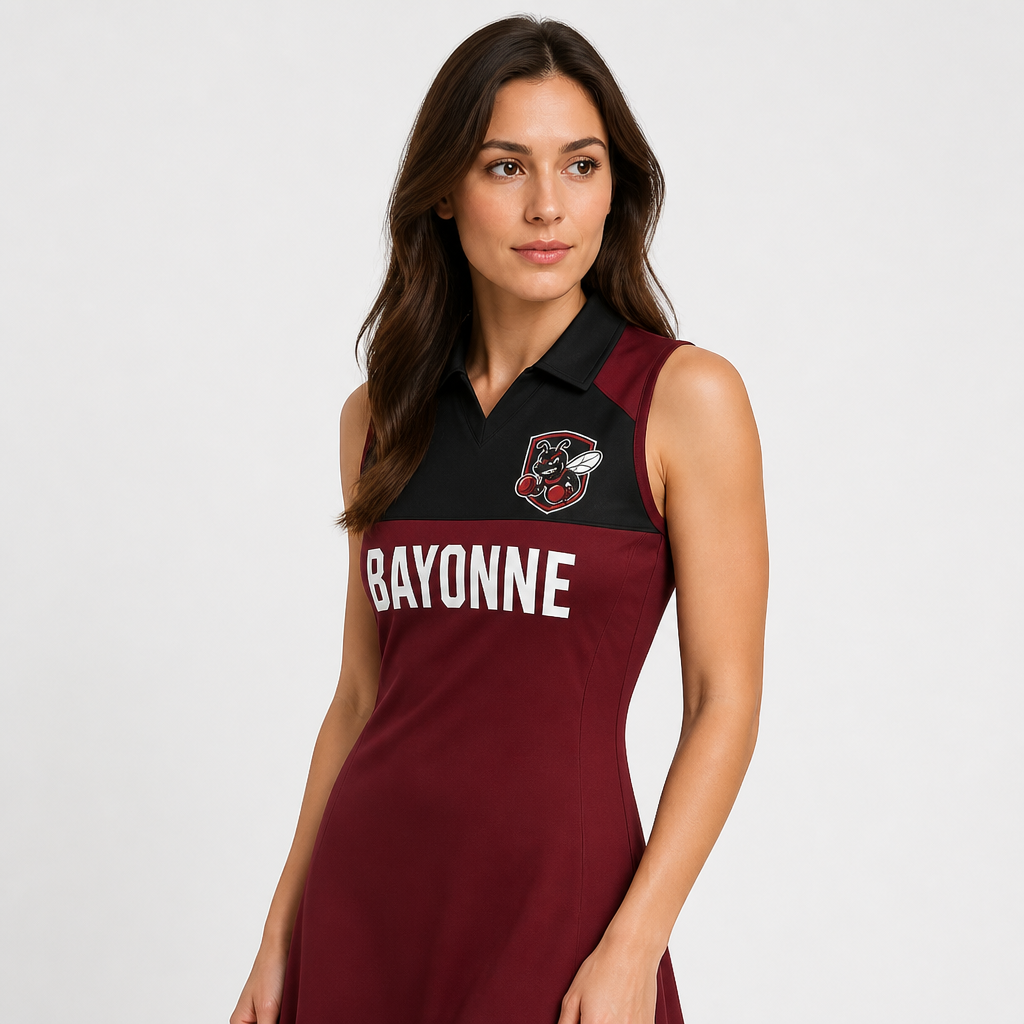
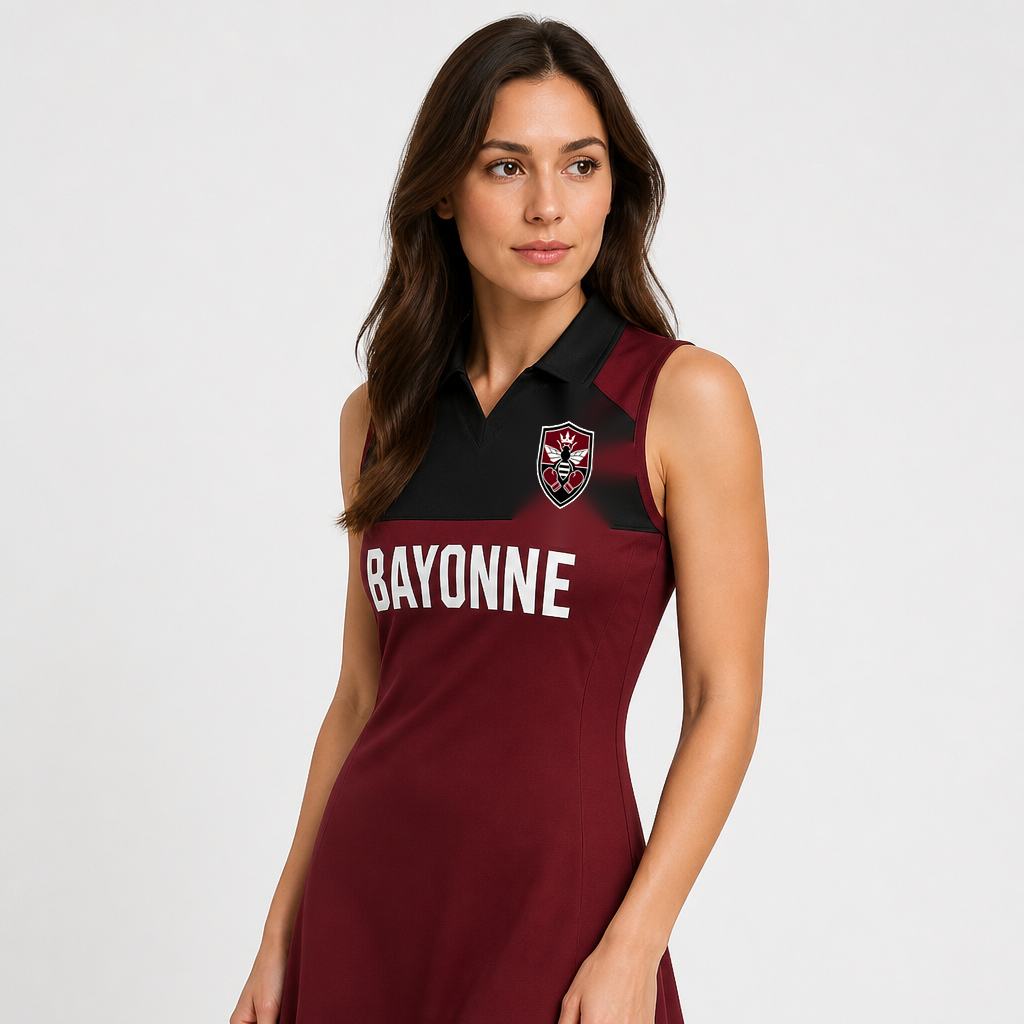
Apply lady-bee crest to jersey dress
Replace the boxing-bee on BB-DRESS plates and campaign stills with the
crowned lady-bee shield, wire CRESTS.lady + dress-only validation, and
tighten back-lettering font remount plus mobile type sizes.

Changed region(s): [[0.5, 0.4062, 0.625, 0.5312]]

diff --git a/src/components/ProductCanvas.tsx b/src/components/ProductCanvas.tsx
@@ -104,14 +104,18 @@ function useInkBiasEm(text: string, fontFamily: string, letterSpacing: string) {
       setBiasEm(Number.isFinite(measured) ? measured : fallback);
     };
 
-    const run = () => {
-      if (typeof document !== "undefined" && document.fonts?.ready) {
-        void document.fonts.ready.then(measure);
-      } else {
-        measure();
+    const run = async () => {
+      if (typeof document !== "undefined" && document.fonts?.load) {
+        try {
+          await document.fonts.load(`180px ${fontFamily}`);
+          await document.fonts.ready;
+        } catch {
+          /* measure with fallback metrics */
+        }
       }
+      if (!cancelled) measure();
     };
-    run();
+    void run();
     return () => {
       cancelled = true;
     };
@@ -187,7 +191,11 @@ export function ProductCanvas({
       />
 
       {view === "back" && showLettering && (
-        <div className="pointer-events-none absolute inset-0" aria-hidden>
+        <div
+          key={fontId}
+          className="pointer-events-none absolute inset-0"
+          aria-hidden
+        >
           <p
             className="absolute flex items-center justify-center whitespace-nowrap text-center uppercase text-white"
             style={{
@@ -234,7 +242,7 @@ export function ProductCanvas({
         </p>
       )}
 
-      <figcaption className="label-caps absolute bottom-0 left-0 right-0 bg-black/70 px-3 py-2 text-center text-[0.6rem] tracking-[0.14em] text-bone/80">
+      <figcaption className="label-caps absolute bottom-0 left-0 right-0 bg-black/70 px-3 py-2 text-center tracking-[0.14em] text-bone/80">
         {caption}
       </figcaption>
     </figure>

diff --git a/src/lib/brandAssets.ts b/src/lib/brandAssets.ts
@@ -9,7 +9,8 @@
  *    plates are forbidden. Delete duplicates; do not reintroduce them.
  * 4. Front/back (or front/side) for a SKU must be that SKU’s own pair — never
  *    borrow another product’s secondary when a dedicated plate exists.
- * 5. Queen Bees crest is Faithful/story only — not the Match kit crest.
+ * 5. Queen Bees story crest (`CRESTS.queen`) is Faithful/story only.
+ * 6. Lady-bee crest (`CRESTS.lady`) is BB-DRESS garment art only — not site chrome.
  */
 
 import jerseyFront from "@/assets/bayonne/previews/jersey-front.jpg";
@@ -36,6 +37,7 @@ import sweatsFront from "@/assets/bayonne/previews/sweats-front.jpg";
 import sweatsSide from "@/assets/bayonne/previews/sweats-side.jpg";
 
 import boxingBee from "@/assets/bayonne/spirit/boxing-bee.png";
+import ladyBee from "@/assets/bayonne/spirit/lady-bee.png";
 import queenCrest from "@/assets/bayonne/reveal/reveal-01-crest.jpg";
 
 import lifestyleFocus from "@/assets/bayonne/lifestyle/lifestyle-focus.jpg";
@@ -46,6 +48,8 @@ import lifestyleQueen from "@/assets/bayonne/lifestyle/lifestyle-queen.jpg";
 export const CRESTS = {
   /** Match kit + site chrome (landing header, store header, category aside). */
   primary: boxingBee,
+  /** Jersey dress left-chest crest — crowned bee shield (NPFC original IP). */
+  lady: ladyBee,
   /** Queen Bees crest mark — story proof, not Match garment art. */
   queen: queenCrest,
 } as const;

diff --git a/src/routes/team.$slug.$product.tsx b/src/routes/team.$slug.$product.tsx
@@ -115,10 +115,12 @@ function ProductListingPage() {
     }
   }, [kit, shopifyItem, size, isHat]);
 
-  // Truth mode: flip to back when personalizing lettered tops.
+  // Truth mode: flip to back when personalizing lettered tops (incl. font pick).
   useEffect(() => {
-    if (galleryMode === "name-it" && product.nameNumber && (name || number)) setView("back");
-  }, [galleryMode, product.nameNumber, name, number]);
+    if (galleryMode === "name-it" && product.nameNumber && (name || number || usesTypography)) {
+      setView("back");
+    }
+  }, [galleryMode, product.nameNumber, name, number, usesTypography, fontId]);
 
   const onNumberChange = (raw: string) => {
     const digits = raw.replace(/\D/g, "");
@@ -426,7 +428,11 @@ function ProductListingPage() {
                       <button
                         key={f.id}
                         type="button"
-                        onClick={() => setFontId(f.id)}
+                        onClick={() => {
+                          setFontId(f.id);
+                          if (galleryMode !== "name-it") setGalleryMode("name-it");
+                          setView("back");
+                        }}
                         className={`border px-3 py-3 text-left transition-colors ${
                           on
                             ? "border-foreground bg-foreground text-background"

diff --git a/src/catalog/skus.ts b/src/catalog/skus.ts
@@ -25,6 +25,8 @@ type Draft = {
   motifDefault?: "chevron" | "grid" | "arc";
   patternCopy?: string;
   strikeOffApproved?: boolean;
+  /** Override default boxing-bee (lady-bee is BB-DRESS only). */
+  crest?: KitSpec["graphics"]["crest"];
 };
 
 function trimsFor(process: ProcessId): KitSpec["garment"]["trims"] {
@@ -59,7 +61,7 @@ function build(d: Draft): KitSpec {
       trim: COLOR.trimBlack,
     },
     graphics: {
-      crest: "boxing-bee",
+      crest: d.crest ?? "boxing-bee",
       crestPlacement: { x: 0.34, y: 0.29, sizeMm: 55 },
       ...(d.continuousBand
         ? {
@@ -333,7 +335,8 @@ const DRAFTS: Draft[] = [
     block: "jersey-dress-v1",
     mode: "name-number",
     continuousBand: true,
-    blurb: "One-piece sideline cut — strongest differentiated SKU in the line.",
+    crest: "lady-bee",
+    blurb: "One-piece sideline cut with the lady-bee crest — strongest differentiated SKU in the line.",
     plateFront: "jersey-dress",
     plateSecondary: "jersey-dress",
     strikeOffApproved: true,

diff --git a/src/styles.css b/src/styles.css
@@ -172,8 +172,8 @@
   font-family: var(--font-sans);
   text-transform: uppercase;
   letter-spacing: 0.18em;
-  font-size: 0.6875rem;
-  line-height: 1.2;
+  font-size: 0.75rem;
+  line-height: 1.25;
 }
 
 @utility rule-gold {
@@ -328,10 +328,10 @@
 @utility place-line {
   font-family: var(--font-sans);
   text-transform: uppercase;
-  letter-spacing: 0.28em;
-  font-size: 0.625rem;
-  line-height: 1.3;
-  color: color-mix(in oklab, currentColor 45%, transparent);
+  letter-spacing: 0.22em;
+  font-size: 0.75rem;
+  line-height: 1.35;
+  color: color-mix(in oklab, currentColor 50%, transparent);
 }
 
 /* —— Luxury editorial display (Venezia-adjacent restraint) —— */

diff --git a/tests/sublimation.test.ts b/tests/sublimation.test.ts
@@ -43,4 +43,15 @@ describe("validateSublimation", () => {
     const warns = validateSublimation(s).filter((v) => v.severity === "warn");
     expect(warns.some((w) => w.code === "STRIKEOFF_REQUIRED")).toBe(true);
   });
+
+  it("allows lady-bee crest on BB-DRESS only", () => {
+    const dress = SKUS.find((x) => x.sku === "BB-DRESS")!;
+    expect(dress.graphics.crest).toBe("lady-bee");
+    expect(sublimationErrors(dress)).toEqual([]);
+
+    const jersey = clone(SKUS.find((x) => x.sku === "BB-MJ-REP")!);
+    jersey.graphics.crest = "lady-bee";
+    const codes = validateSublimation(jersey).map((v) => v.code);
+    expect(codes).toContain("ILLEGAL_CREST");
+  });
 });

diff --git a/src/spec/validate.ts b/src/spec/validate.ts
@@ -61,10 +61,13 @@ export function validateSublimation(spec: KitSpec): Violation[] {
     }
   }
 
-  if (spec.graphics.crest !== "boxing-bee") {
+  const crestOk =
+    spec.graphics.crest === "boxing-bee" ||
+    (spec.graphics.crest === "lady-bee" && spec.sku === "BB-DRESS");
+  if (!crestOk) {
     v.push({
       code: "ILLEGAL_CREST",
-      fix: "purchasable SKUs may only use boxing-bee; Queen Bees is story-only",
+      fix: "purchasable SKUs use boxing-bee; lady-bee is BB-DRESS only; Queen Bees is story-only",
     });
   }
 

diff --git a/src/lib/kit.ts b/src/lib/kit.ts
@@ -62,9 +62,9 @@ export const LETTERING_HOOPS: LetteringLayout = {
 
 /** Jersey dress — narrow torso (≈33% wide at the waist), longer silhouette. */
 export const LETTERING_DRESS: LetteringLayout = {
-  centerX: 49.5,
-  name: { y: 16.5, heightPct: 4.2, maxWidthPct: 36, archDeg: 0 },
-  number: { y: 21.5, heightPct: 30, maxWidthPct: 32 },
+  centerX: 49.8,
+  name: { y: 17.2, heightPct: 4.4, maxWidthPct: 34, archDeg: 0 },
+  number: { y: 22.2, heightPct: 28, maxWidthPct: 30 },
   surface: "garnet",
 };
 

diff --git a/tests/lettering.test.ts b/tests/lettering.test.ts
@@ -20,7 +20,8 @@ describe("ref print area — Match jersey & jersey dress", () => {
     const L = letteringFor(dress);
     expect(L).toEqual(LETTERING_DRESS);
     expect(L.name.archDeg).toBe(0);
-    expect(L.number.heightPct).toBeGreaterThanOrEqual(30);
+    expect(L.number.heightPct).toBeGreaterThanOrEqual(26);
+    expect(L.number.maxWidthPct).toBeLessThanOrEqual(34);
     expect(L.number.y).toBeGreaterThan(L.name.y);
   });
 });

diff --git a/src/lib/catalog.ts b/src/lib/catalog.ts
@@ -251,7 +251,7 @@ export const PRODUCTS: CatalogProduct[] = [
     id: "jersey-dress",
     handle: "bayonne-bees-jersey-dress",
     name: "Jersey Dress",
-    blurb: "One piece. Same back print as the Match jersey — your name, your number.",
+    blurb: "One piece with the lady-bee crest. Same back print as the Match jersey — your name, your number.",
     category: "sideline",
     price: 72,
     customizable: true,

diff --git a/src/spec/types.ts b/src/spec/types.ts
@@ -60,8 +60,8 @@ export interface KitSpec {
   };
 
   graphics: {
-    /** ONLY value permitted on a purchasable SKU */
-    crest: "boxing-bee";
+    /** boxing-bee default; lady-bee only on BB-DRESS */
+    crest: "boxing-bee" | "lady-bee";
     crestPlacement: Placement;
     chestBand?: {
       text: "BAYONNE";

diff --git a/src/catalog/legal.ts b/src/catalog/legal.ts
@@ -21,6 +21,7 @@ export const BOE_PERMISSION = {
     "1936",
     "Avenue A",
     "boxing-bee", // NPFC original IP
+    "lady-bee", // NPFC original IP — jersey dress crest only
   ] as const,
 } as const;
 
